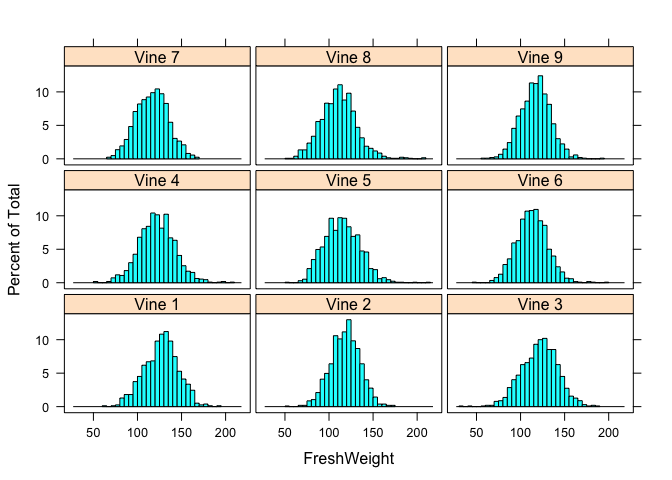
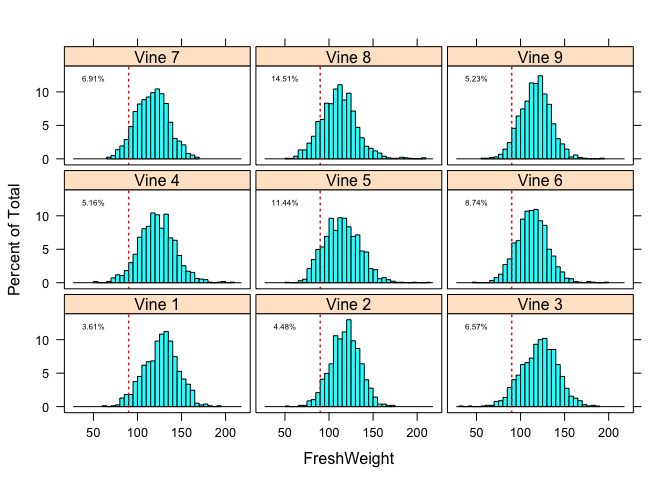
added 90gm thres

diff --git a/code/visualisation/fruitWeight.md b/code/visualisation/fruitWeight.md
@@ -38,8 +38,13 @@ Visualizing the Fresh weight using histograms, conditioned on each Vine,
 Treatment, and collapsed over Vines;
 
 ``` r
-histogram(~ FreshWeight | VineUUID, data=all_fruit_data, scales=list(alternating=FALSE), 
-          between=list(x=0.3, y=0.3), breaks=30, layout=c(3,3))
+histogram(~ FreshWeight | VineUUID, data=all_fruit_data, scales=list(alternating=FALSE), between=list(x=0.3, y=0.3),
+          breaks=30, layout=c(3,3), panel=function(x, subscripts, groups, ...){
+            panel.histogram(x, ...)
+            panel.abline(v=90, lty=3, col="red", lwd=1.5)
+            thres_frac <- sum(x<=90, na.rm=TRUE) / length(x)
+            panel.text(50, 12, paste0(round(100*thres_frac,2), "%"), cex=0.5)
+          })
 ```
 
 ![](fruitWeight_files/figure-gfm/unnamed-chunk-2-1.png)<!-- -->
@@ -47,14 +52,25 @@ histogram(~ FreshWeight | VineUUID, data=all_fruit_data, scales=list(alternating
 ``` r
 histogram(~ FreshWeight | VineTreatmentNoNumber, data=all_fruit_data,
           aspect=1, main="Collapsing over replicate Vines", 
-          scales=list(alternating=FALSE), between=list(x=0.3, y=0.3), breaks=30, layout=c(3,1))
+          scales=list(alternating=FALSE), between=list(x=0.3, y=0.3), breaks=30, layout=c(3,1), panel=function(x, subscripts, groups, ...){
+            panel.histogram(x, ...)
+            panel.abline(v=90, lty=3, col="red", lwd=1.5)
+            thres_frac <- sum(x<=90, na.rm=TRUE) / length(x)
+            panel.text(50, 10, paste0(round(100*thres_frac,2), "%"), cex=0.6)
+          })
 ```
 
 ![](fruitWeight_files/figure-gfm/unnamed-chunk-2-2.png)<!-- -->
 
 ``` r
 histogram(~ FreshWeight, data=all_fruit_data, scales=list(alternating=FALSE), 
-          between=list(x=0.3, y=0.3), breaks=30, main="Collapsing over all Vines")
+          between=list(x=0.3, y=0.3), breaks=30, main="Collapsing over all Vines",
+          panel=function(x, subscripts, groups, ...){
+            panel.histogram(x, ...)
+            panel.abline(v=90, lty=3, col="red", lwd=1.5)
+            thres_frac <- sum(x<=90, na.rm=TRUE) / length(x)
+            panel.text(50, 10, paste0(round(100*thres_frac,2), "%"))
+          })
 ```
 
 ![](fruitWeight_files/figure-gfm/unnamed-chunk-2-3.png)<!-- -->
